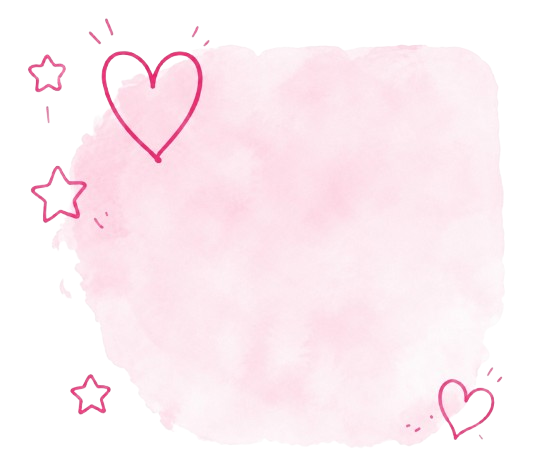
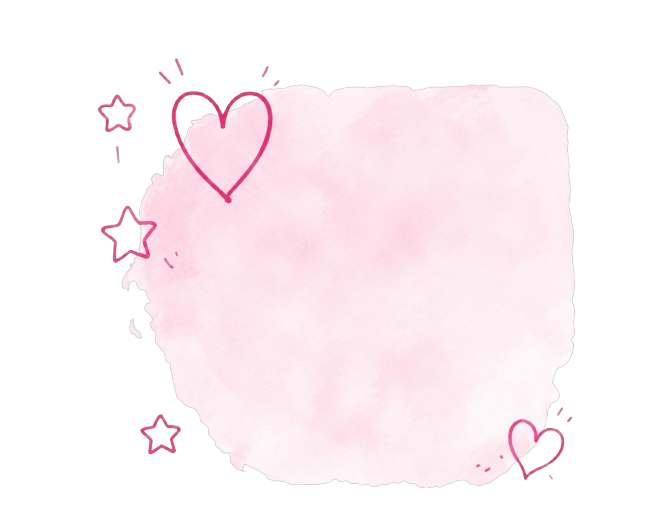
asfafds

diff --git a/assets/css/style.css b/assets/css/style.css
@@ -6289,6 +6289,7 @@ img.lazy-img.loaded {
   display: flex;
   align-items: stretch;
   gap: clamp(0.55rem, 1vw, 0.85rem);
+  overflow: visible;
 }
 
 .explore-impact-card {
@@ -6341,29 +6342,30 @@ img.lazy-img.loaded {
 }
 
 .explore-impact-quote {
-  flex: 1.25 1 240px;
-  min-width: min(100%, 240px);
+  flex: 1.35 1 280px;
+  min-width: min(100%, 280px);
   align-self: stretch;
   position: relative;
   display: flex;
   align-items: center;
   justify-content: center;
   min-height: var(--explore-impact-quote-min-h);
-  padding: clamp(0.5rem, 1vw, 0.85rem) clamp(0.65rem, 1.2vw, 1rem);
+  padding: clamp(0.35rem, 0.8vw, 0.6rem);
   overflow: visible;
   box-sizing: border-box;
 }
 
 .explore-impact-quote__blob {
   position: absolute;
-  inset: 0;
-  width: 100%;
-  height: 100%;
+  /* Push baked-in heart/stars outward so they frame text instead of crossing it */
+  inset: -6% -2% -4% -12%;
+  width: auto;
+  height: auto;
+  max-width: none;
   object-fit: contain;
   object-position: center center;
   pointer-events: none;
   user-select: none;
-  overflow: visible;
 }
 
 .explore-impact-quote__text {
@@ -6376,7 +6378,11 @@ img.lazy-img.loaded {
   width: min(100%, var(--explore-impact-quote-text-max));
   max-width: 100%;
   margin-inline: auto;
-  padding: clamp(1rem, 1.6vw, 1.35rem) clamp(1.15rem, 2.2vw, 1.85rem);
+  /* Extra left/top inset clears the pink heart stroke on the blob */
+  padding-top: clamp(1.35rem, 2.4vw, 2rem);
+  padding-right: clamp(1rem, 1.8vw, 1.5rem);
+  padding-bottom: clamp(1.1rem, 1.8vw, 1.5rem);
+  padding-left: clamp(2rem, 3.8vw, 3.25rem);
   text-align: center;
   box-sizing: border-box;
   overflow: visible;
@@ -6385,8 +6391,8 @@ img.lazy-img.loaded {
 .explore-impact-quote__stanza {
   font-family: var(--font-body);
   font-weight: 700;
-  font-size: clamp(0.78rem, 0.88vw, 0.94rem);
-  line-height: 1.4;
+  font-size: clamp(0.74rem, 0.84vw, 0.9rem);
+  line-height: 1.42;
   color: var(--color-navy);
   margin: 0;
   max-width: 100%;
@@ -10276,13 +10282,20 @@ img.lazy-img.loaded {
   }
 
   .explore-impact-quote {
-    flex: 0 0 min(300px, 88vw);
-    min-width: min(300px, 88vw);
+    flex: 0 0 min(320px, 90vw);
+    min-width: min(320px, 90vw);
     scroll-snap-align: start;
-    min-height: clamp(240px, 68vw, 310px);
+    min-height: clamp(260px, 72vw, 330px);
     justify-content: center;
-    padding: 0.65rem 0.85rem;
+    padding: 0.5rem;
     overflow: visible;
+  }
+
+  .explore-impact-quote__text {
+    padding-top: 1.5rem;
+    padding-right: 1.15rem;
+    padding-bottom: 1.25rem;
+    padding-left: 2.5rem;
   }
 
   .explore-dream__grid {
